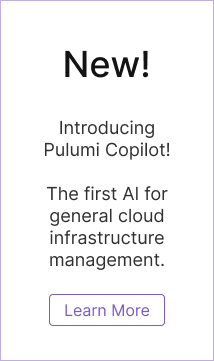
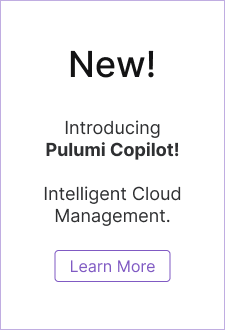
copilot docs ad

Changed region(s): [[0.1963, 0.5152, 0.8131, 0.9091], [0.1963, 0.3333, 0.8131, 0.4848], [0.2804, 0.1212, 0.7009, 0.2424]]

diff --git a/layouts/partials/docs/right-nav-ad.html b/layouts/partials/docs/right-nav-ad.html
@@ -1,5 +1,5 @@
 <div class="mt-8 docs-marketing-ad w-44">
     <a href="/blog/pulumi-copilot/" data-track="docs-copilot-ad">
-        <img src="/images/docs/ad/pulumi-copilot-ad.png" alt="Introducing Pulumi Copilot - The first AI for general cloud infrastructure management." />
+        <img src="/images/docs/ad/pulumi-copilot-ad.png" alt="Introducing Pulumi Copilot - Intelligent Cloud Management." />
     </a>
 </div>
